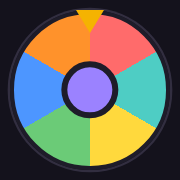
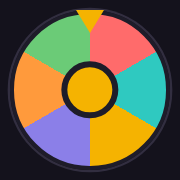
Switch accent color to gold and update wheel palette
Replace the purple accent with gold/amber across both themes, and
swap the wheel's sector colors to a warmer coral/teal/gold/violet/
orange set. Regenerate the home-screen icon to match.

diff --git a/src/index.css b/src/index.css
@@ -4,8 +4,8 @@
   --text: #f3f2f7;
   --text-muted: #a8a3b8;
   --border: #322e40;
-  --accent: #9b82ff;
-  --accent-contrast: #14121c;
+  --accent: #f5b301;
+  --accent-contrast: #241a00;
   --danger: #f87171;
   --shadow: rgba(0, 0, 0, 0.4) 0 8px 24px -6px;
 
@@ -27,8 +27,8 @@
   --text: #1f2430;
   --text-muted: #6b7280;
   --border: #e5e4e7;
-  --accent: #7c5cff;
-  --accent-contrast: #ffffff;
+  --accent: #f5b301;
+  --accent-contrast: #241a00;
   --danger: #e5484d;
   --shadow: rgba(20, 15, 40, 0.12) 0 8px 24px -6px;
   color-scheme: light;

diff --git a/src/constants.js b/src/constants.js
@@ -1,10 +1,10 @@
 export const WHEEL_COLORS = [
   '#FF6B6B',
-  '#4ECDC4',
-  '#FFD93D',
+  '#2FC9C0',
+  '#F5B301',
+  '#8B7FE8',
+  '#FF9A3C',
   '#6BCB77',
-  '#4D96FF',
-  '#FF922B',
-  '#B39CD0',
   '#FF6FB5',
+  '#4D96FF',
 ]
